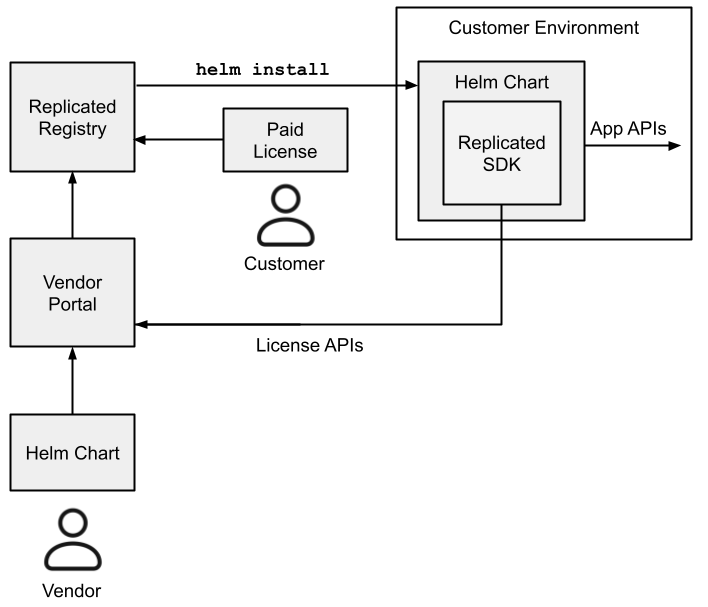
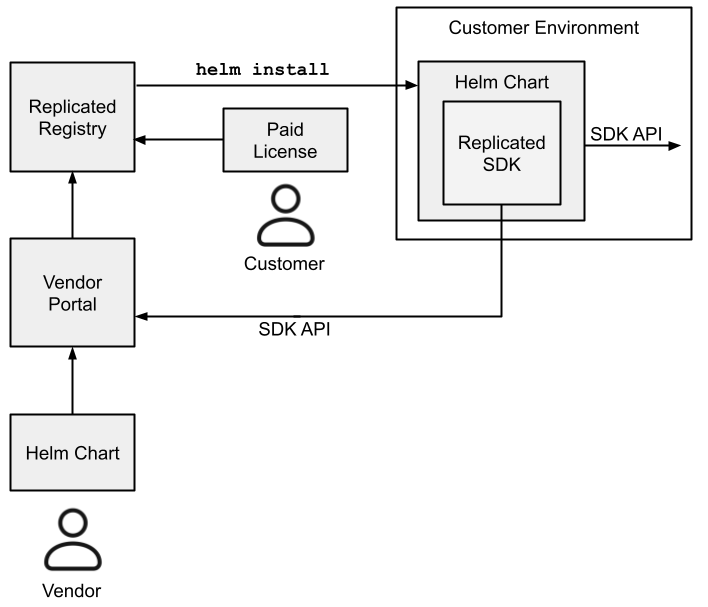
edits

Changed region(s): [[0.1864, 0.5041, 0.7147, 0.5931], [0.839, 0.1779, 0.9633, 0.2372]]

diff --git a/docs/reference/replicated-sdk-apis.md b/docs/reference/replicated-sdk-apis.md
@@ -1,14 +1,14 @@
 import Beta from "../partials/replicated-sdk/_beta.mdx"
 
-# Replicated SDK APIs (Beta)
+# Replicated SDK API (Beta)
 
-The Replicated SDK provides APIs that you can use to embed Replicated functionality into your Helm chart application. For more information about how to get started with the Replicated SDK, see [About the Replicated SDK](/vendor/replicated-sdk-overview).
+The Replicated SDK provides an API that you can use to embed Replicated functionality into your Helm chart application. For more information about how to get started with the Replicated SDK, see [About the Replicated SDK](/vendor/replicated-sdk-overview).
 
 <Beta/>
 
-## Access the SDK APIs
+## Access the SDK API
 
-The Replicated SDK APIs require the ID for a customer license created in the Replicated vendor portal to authenticate and initialize in an environment. For information about creating customer licenses, see [Creating and Managing Customers](/vendor/releases-creating-customer).
+The Replicated SDK API is available after the Replicated SDK is installed and initialized in a cluster. For information about installing the SDK, see [Installing an Application and the SDK](/vendor/replicated-sdk-installing).
 
 After the SDK is installed, the Replicated SDK API service is exposed at `replicated:3000`. To verify the location of the Replicated SDK API service, you can run `kubectl get service` in the appropriate namespace.
 
